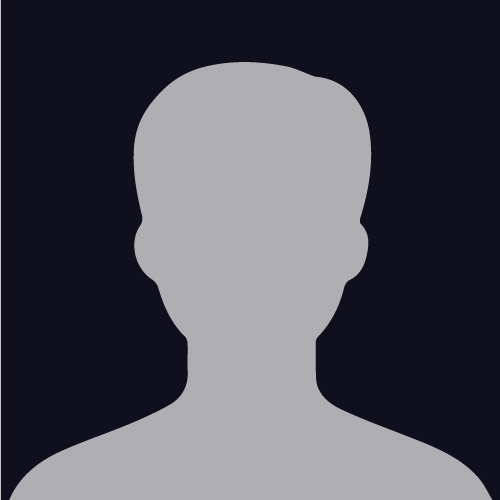
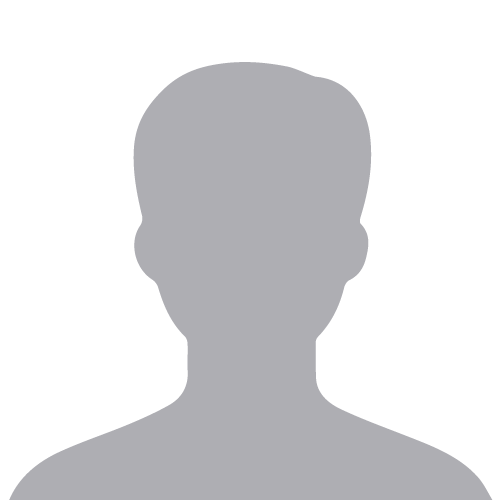
commit

diff --git a/lib/Component/setting.dart b/lib/Component/setting.dart
@@ -1,0 +1,75 @@
+import 'package:flutter/material.dart';
+
+class Setting extends StatefulWidget {
+  const Setting({super.key});
+
+  @override
+  State<Setting> createState() => _SettingState();
+}
+
+class _SettingState extends State<Setting> {
+  @override
+  Widget build(BuildContext context) {
+    return Scaffold(
+      backgroundColor: Color(0xFF0F0F1E),
+      appBar: AppBar(
+        backgroundColor: Color(0xFF6034A6),
+        foregroundColor: Colors.white,
+        leading: Padding(
+          padding: const EdgeInsets.only(left: 15),
+          child: IconButton(
+            onPressed: () {
+              Navigator.of(context).pop();
+            },
+            icon: Icon(Icons.arrow_back_ios, color: Colors.white, size: 25),
+          ),
+        ),
+      ),
+      body: Container(
+        // color: Colors.red,
+        child: Column(
+          children: [
+            Stack(
+              alignment: Alignment.center,
+              clipBehavior: Clip.none,
+              children: [
+                Container(
+                  color: Color(0xFF6034A6),
+                  width: double.infinity,
+                  height: 150,
+                  // alignment: Alignment.center,
+                  padding: EdgeInsets.only(top: 30),
+                  child: Text("Edit Your Information",textAlign: TextAlign.center ,style: TextStyle(color: Colors.white, fontSize: 22, fontWeight: FontWeight.bold)),
+                ),
+                Positioned(
+                  top: 80,
+                  child: CircleAvatar(
+                    backgroundColor: Color(0xFF0F0F1E),
+                    radius: 75,
+                    child: CircleAvatar(
+                      radius: 70,
+                      backgroundColor: Color(0xFF6034A6),
+                      backgroundImage: AssetImage("Assets/avatar.png"),
+                    ),
+                  ),
+                )
+              ],
+            ),
+            Padding(
+              padding: const EdgeInsets.fromLTRB(10, 85, 10, 10),
+              child: Column(
+                children: [
+                  InkWell(
+                    onTap: () {},
+                    child: Text("Change Picture",textAlign: TextAlign.center ,style: TextStyle(color: Color(0xFF6034A6), fontSize: 18, fontWeight: FontWeight.bold),),
+                  ),
+                ],
+              ),
+            )
+          ],
+        ),
+      ),
+      
+    );
+  }
+}

diff --git a/lib/Component/drawer.dart b/lib/Component/drawer.dart
@@ -4,12 +4,10 @@ import 'package:flutter/material.dart';
 class Mydrawer extends StatelessWidget {
   
   late String myUsername, myEmail;
-
   Mydrawer(String username, String email){
     myUsername = username;
     myEmail = email;
   }
-
   @override
   Widget build(BuildContext context) {
     return Drawer(
@@ -33,6 +31,7 @@ class Mydrawer extends StatelessWidget {
                     radius: 40,
                     child: CircleAvatar(
                       radius: 37,
+                      backgroundColor: Color(0xFF0F0F1E),
                       backgroundImage: AssetImage("Assets/avatar.png"),
                     ),
                   ),
@@ -111,7 +110,7 @@ class Mydrawer extends StatelessWidget {
                     ),
                     title: Text("Setting", style: TextStyle(color: Colors.white, fontSize: 26, fontWeight: FontWeight.bold)),
                     onTap: () {
-                      // Navigator.of(context).pushNamed("Home");
+                      Navigator.of(context).pushNamed("Setting");
                     },
                   ),
                   Divider(color: Color(0xFF0F0F1E), indent: 15, endIndent: 15, thickness: 2,),

diff --git a/lib/main.dart b/lib/main.dart
@@ -5,10 +5,11 @@ import 'package:notes/Authentication/signUp.dart';
 import 'package:notes/Component/help.dart';
 import 'package:notes/Crud/addNote.dart';
 import 'package:notes/Home/home.dart';
-import 'package:flutter_native_splash/flutter_native_splash.dart';
 import 'package:firebase_core/firebase_core.dart';
 import 'package:notes/Authentication/splashScreen.dart';
 import 'package:shared_preferences/shared_preferences.dart';
+
+import 'Component/setting.dart';
 
 late bool isActive;
 late String id;
@@ -46,7 +47,9 @@ class MyApp extends StatelessWidget {
         "SignUp":(context) => SignUp(),
         "AddNote":(context) => AddNote(),
         "SplashScreen":(context) => splashScreen(),
-        "Help":(context) => HelpScreen()
+        "Help":(context) => HelpScreen(),
+        "Setting":(context) => Setting()
+
       },
       theme: ThemeData(
         primaryColor: Color(0xFF6034A6),
